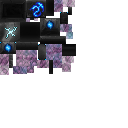
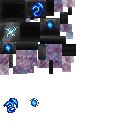
Feat: refine Draconic Altar presentation

Changed region(s): [[0.0312, 0.75, 0.1562, 0.9062], [0.2188, 0.75, 0.3125, 0.8438]]

diff --git a/src/test/java/com/alechilles/hydragon/integration/DraconicAltarAssetContractTest.java b/src/test/java/com/alechilles/hydragon/integration/DraconicAltarAssetContractTest.java
@@ -1,0 +1,43 @@
+package com.alechilles.hydragon.integration;
+
+import static org.junit.jupiter.api.Assertions.assertEquals;
+import static org.junit.jupiter.api.Assertions.assertTrue;
+
+import java.nio.file.Files;
+import java.nio.file.Path;
+import org.junit.jupiter.api.Test;
+
+class DraconicAltarAssetContractTest {
+    private static final Path ROOT = Path.of(System.getProperty("hydragon.project.basedir", "."));
+
+    @Test
+    void altarAnimationRunsAtQuarterOfItsOriginalPlaybackRate() throws Exception {
+        String animation = read("Common/Blocks/HyDragon/Draconic_Altar/Draconic_Altar_Idle.blockyanim");
+
+        assertTrue(animation.contains("\"duration\": 228"));
+        assertTrue(animation.contains("\"time\": 120"));
+        assertTrue(animation.contains("\"time\": 152"));
+        assertTrue(animation.contains("\"time\": 228"));
+    }
+
+    @Test
+    void altarUsesOneBlockCollisionAndFullbrightEnergyOverlays() throws Exception {
+        String item = read("Server/Item/Items/Bench/Draconic_Altar.json");
+        String model = read("Common/Blocks/HyDragon/Draconic_Altar/Draconic_Altar.blockymodel");
+
+        assertTrue(item.contains("\"HitboxType\": \"Statue_Small\""));
+        assertEquals(4, occurrences(model, "\"name\": \"Energy_"));
+        assertEquals(4, occurrences(model, "\"type\": \"quad\""));
+        assertTrue(occurrences(model, "\"shadingMode\": \"fullbright\"") >= 9);
+        assertTrue(model.contains("\"offset\": {\"x\": 0, \"y\": 96}"));
+        assertTrue(model.contains("\"offset\": {\"x\": 24, \"y\": 96}"));
+    }
+
+    private static int occurrences(String value, String needle) {
+        return (value.length() - value.replace(needle, "").length()) / needle.length();
+    }
+
+    private static String read(String relative) throws Exception {
+        return Files.readString(ROOT.resolve(relative)).replace("\r\n", "\n");
+    }
+}
